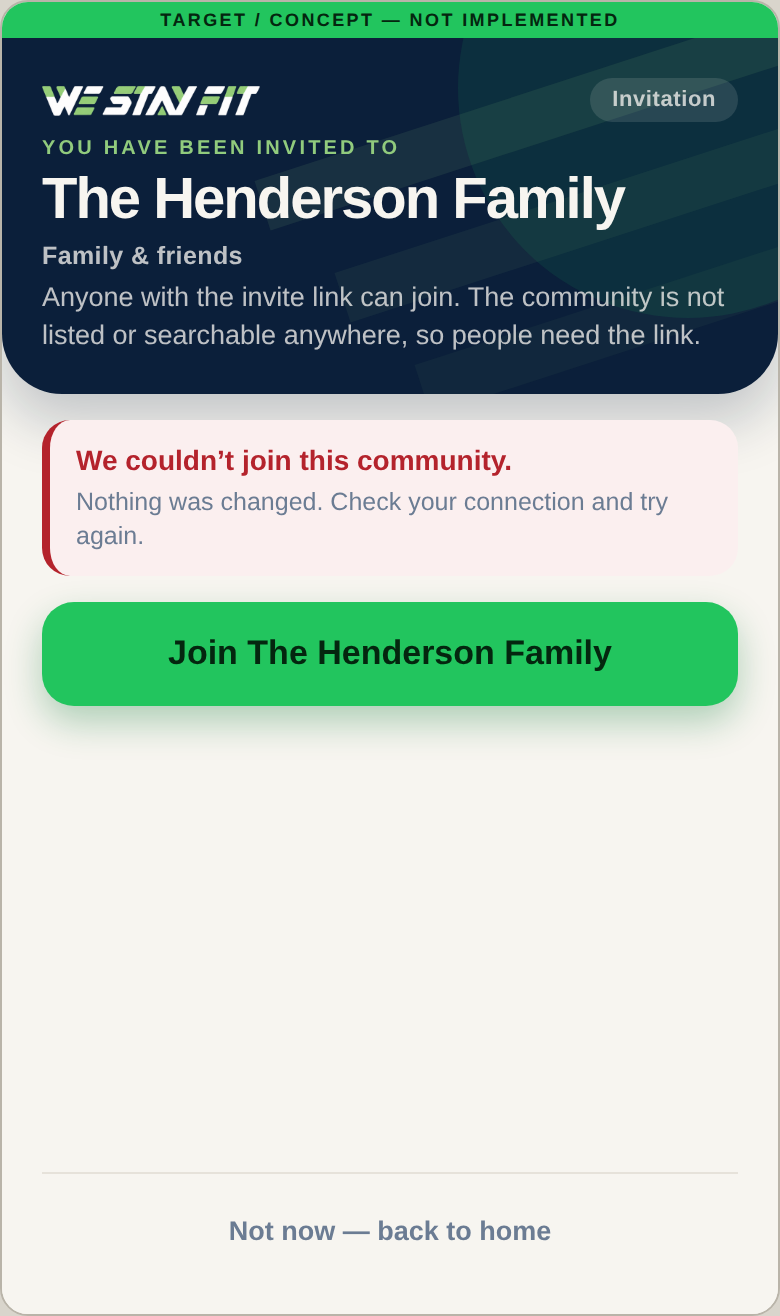
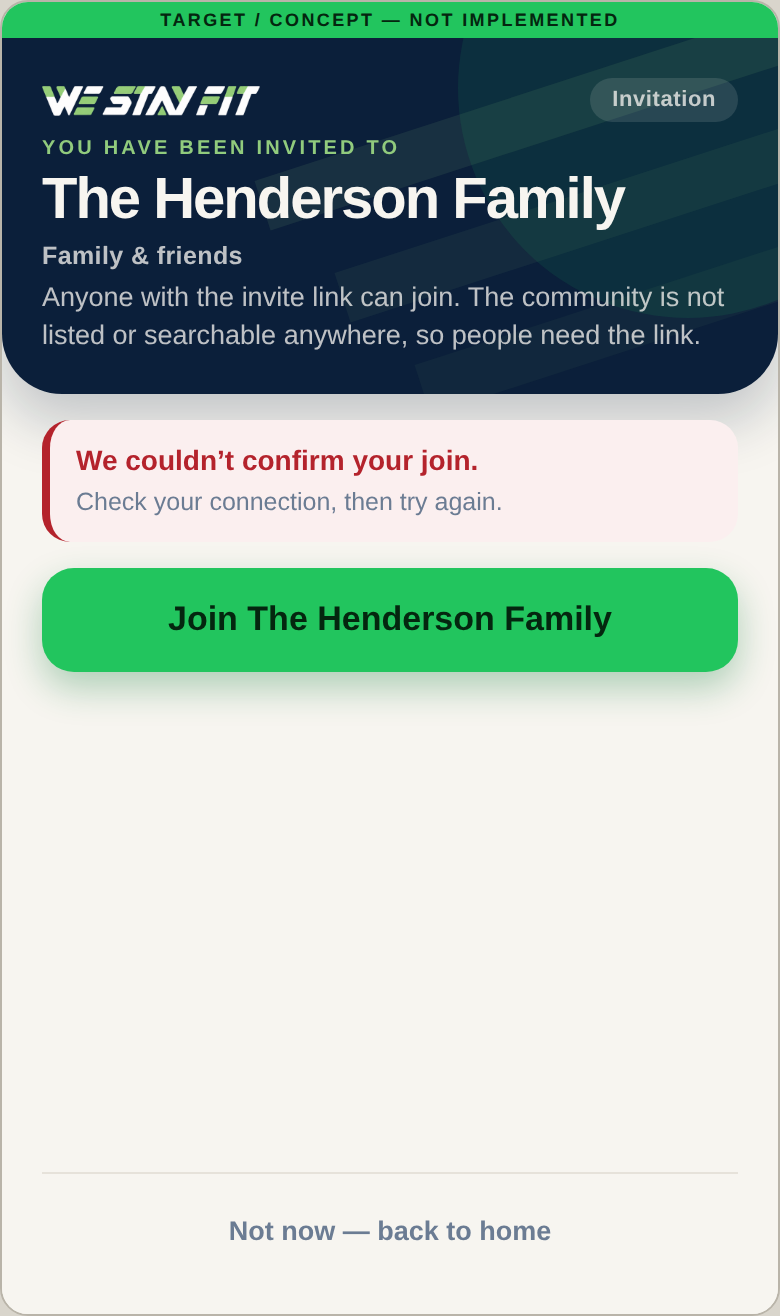
design(westayfit): the Join target stops promising nothing was changed
DELIBERATE RE-BASELINE of four accepted TARGET frames, captured with
WSF_CAPTURE_FRAMES=1, as the evidence guard asks to be said in the
commit. Authorised by the Director's rebaseline decision after the page
verdict at a760a4e; narrow copy correction, not a new visual pass.

JoinSetupTargets' join-failed banner said "We couldn't join this
community." / "Nothing was changed. Check your connection and try
again." The route it targets stopped saying either at a760a4e, because
neither was knowable: an error carrying no mapped callable code is the
case where the commit may have happened and the response was lost, and
db.runTransaction makes the write all-or-nothing ON THE SERVER without
saying whether the server got that far. It now carries the shipped
wording — "We couldn't confirm your join." / "Check your connection,
then try again." — and a comment recording what it superseded and why.

Supersession, old -> new sha256 (first 16), at parent 44cc063:

  TARGET-join-failed-390x640.png      e6628f09533db31f -> 3c2db8a3bef27e80
  TARGET-join-failed-390x640-end.png  15373785f3e791d6 -> c30294344d98b435
  TARGET-join-failed-390x844.png      cec3f825a81a42ce -> 4d9ac6df1e6136b0
  TARGET-join-failed-430x932.png      a48bd7f4f0891fb2 -> f7b8c12f0aecc716

The affected set was derived from the component rather than a filename
glob: the copy lives in Frame id="join-failed", which maps to exactly
these four. TARGET-join-load-failed-* matches a careless *failed* glob
[…]

Changed region(s): [[0.0308, 0.3427, 0.9538, 0.5608]]

diff --git a/apps/westayfit/src/ui/designTarget/JoinSetupTargets.tsx b/apps/westayfit/src/ui/designTarget/JoinSetupTargets.tsx
@@ -497,10 +497,25 @@ export function JoinFailedTarget() {
               untouched: a failed round trip does not invalidate the link, and
               re-rendering the hero as an error state would say it did.
             */}
+            {/*
+              SUPERSEDED COPY, AND WHY. This said "We couldn't join this
+              community." / "Nothing was changed.", and the route it targets no
+              longer says either, because neither was knowable. An error with
+              no mapped callable code is the case where the commit may have
+              happened and the response was lost: `db.runTransaction` makes the
+              write all-or-nothing ON THE SERVER and says nothing about whether
+              the server got that far, and the screen reads no membership
+              before it speaks.
+
+              This frame is the generic, unclassified failure, so it takes the
+              uncertainty wording shipped at a760a4e. The NAMED refusals —
+              not-valid, too-many — are untouched: there a code came back, the
+              server answered, and "couldn't join" is a fact.
+            */}
             <Banner
               tone="error"
-              title="We couldn’t join this community."
-              body="Nothing was changed. Check your connection and try again."
+              title="We couldn’t confirm your join."
+              body="Check your connection, then try again."
             />
             <Primary label="Join The Henderson Family" />
             <Foot>
